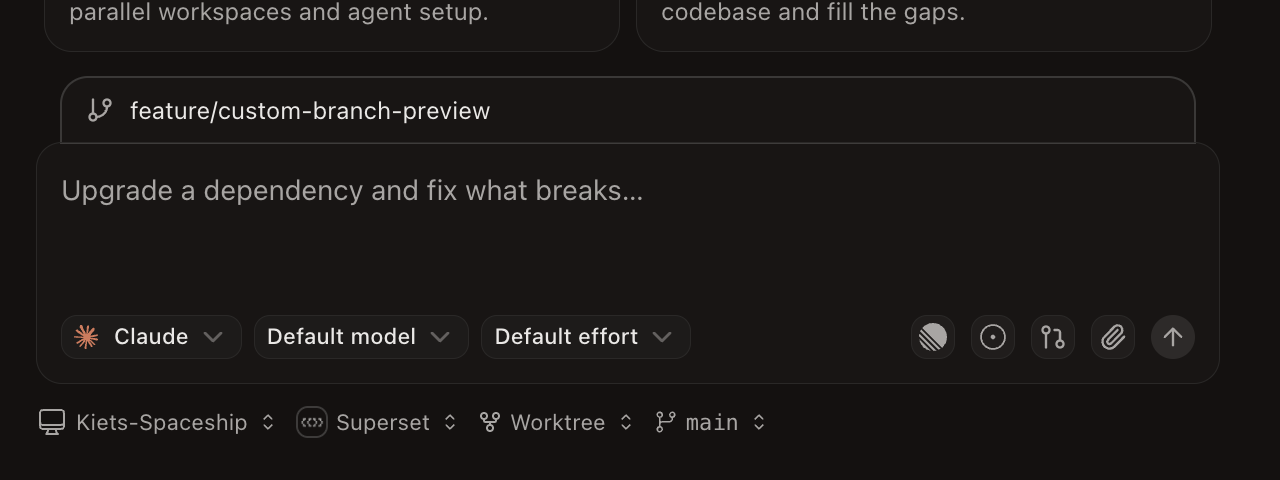
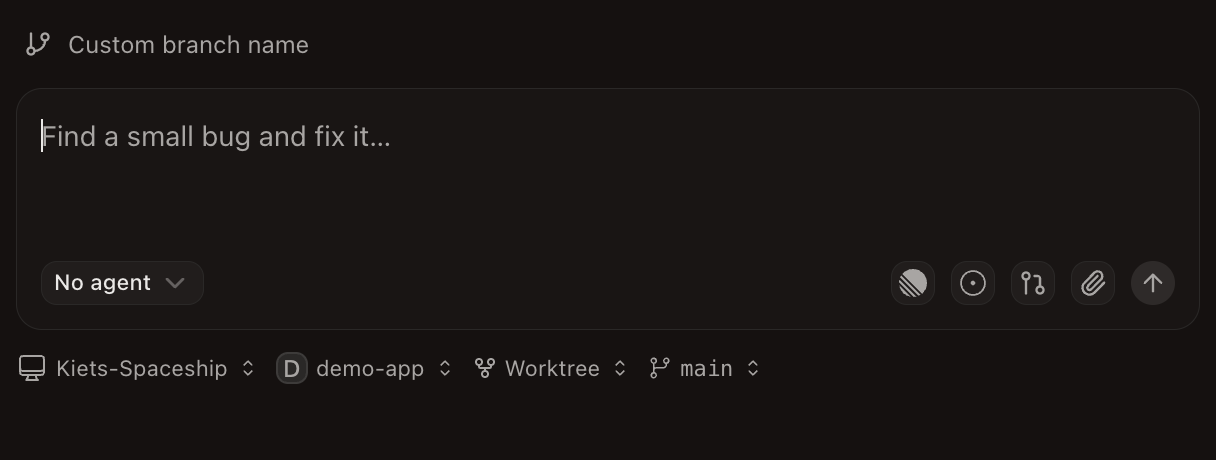
style(desktop): use borderless custom branch input

diff --git a/apps/desktop/src/renderer/routes/_authenticated/components/DashboardNewWorkspaceModal/components/NewWorkspaceScreen/NewWorkspaceScreen.tsx b/apps/desktop/src/renderer/routes/_authenticated/components/DashboardNewWorkspaceModal/components/NewWorkspaceScreen/NewWorkspaceScreen.tsx
@@ -800,7 +800,7 @@ export function NewWorkspaceScreen({
 						!draft.isSession &&
 						draft.checkout === "worktree" &&
 						!draft.linkedPR && (
-							<div className="mx-3 -mb-px flex items-center gap-2 rounded-t-xl border border-border bg-foreground/[0.02] px-3 py-2 text-muted-foreground focus-within:border-ring">
+							<div className="mb-2 flex min-h-7 items-center gap-2 px-1 text-muted-foreground">
 								<GitBranchIcon
 									className="size-3.5 shrink-0"
 									aria-hidden="true"
@@ -808,7 +808,7 @@ export function NewWorkspaceScreen({
 								<input
 									id="new-workspace-branch-name"
 									aria-label={t({ message: "Custom branch name" })}
-									className="min-w-0 flex-1 bg-transparent text-xs text-foreground outline-none placeholder:text-muted-foreground disabled:opacity-50"
+									className="min-w-0 flex-1 bg-transparent text-xs text-foreground outline-none placeholder:text-muted-foreground focus-visible:underline focus-visible:decoration-muted-foreground focus-visible:underline-offset-4 disabled:opacity-50"
 									placeholder={t({ message: "Custom branch name" })}
 									autoComplete="off"
 									onBlur={() => {
